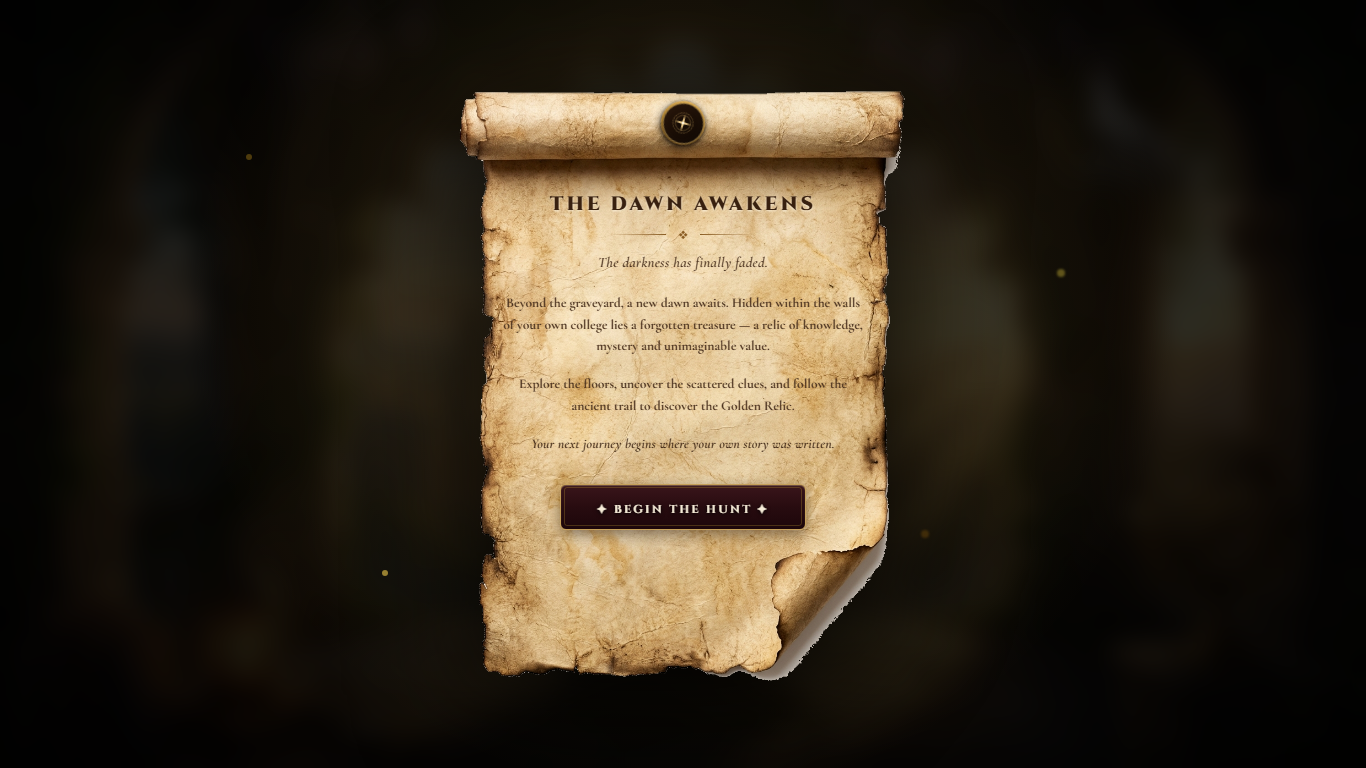
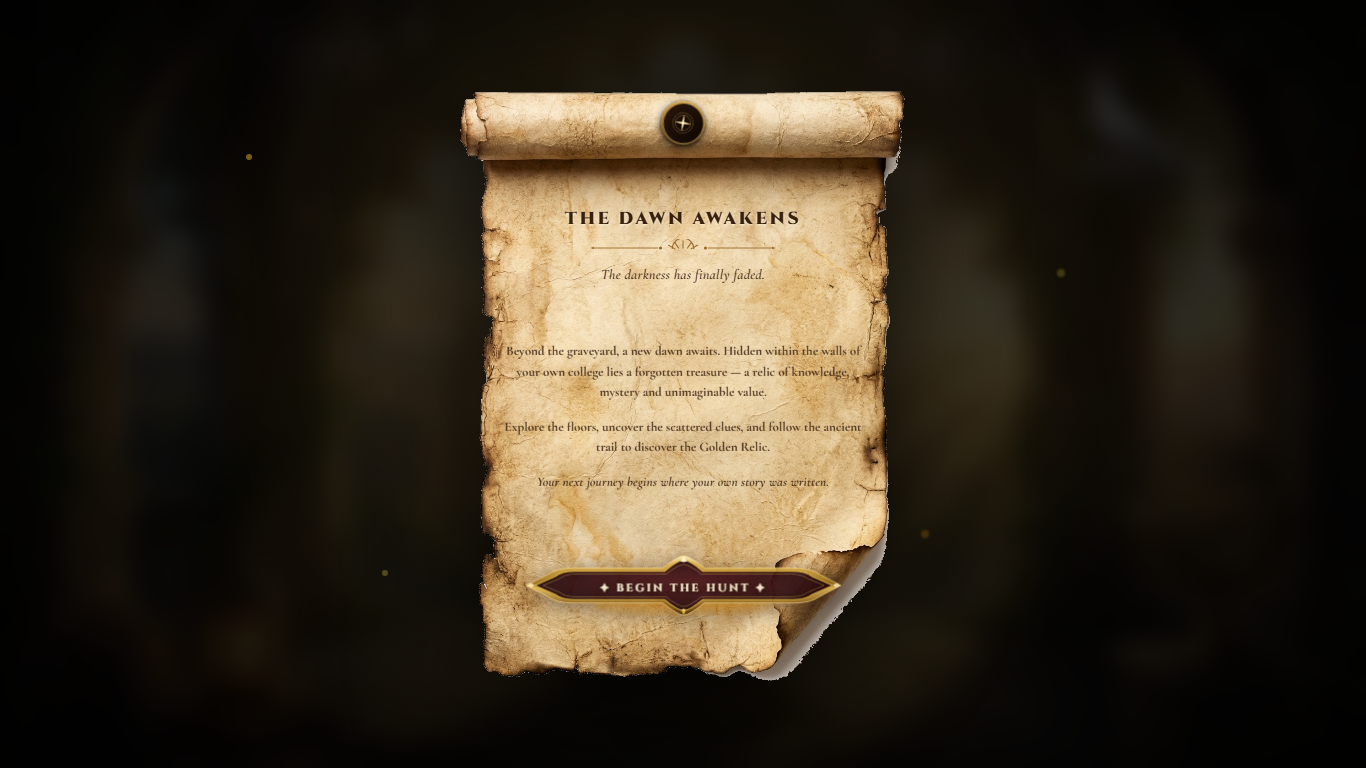
feat(round4): redesign royal cartouche button and place the dawn awakens deep inside letter body

Changed region(s): [[0.369, 0.25, 0.6457, 0.5938], [0.369, 0.625, 0.6149, 0.8125]]

diff --git a/src/components/game/round4/LetterRevealDialog.tsx b/src/components/game/round4/LetterRevealDialog.tsx
@@ -225,30 +225,46 @@ export const LetterRevealDialog: React.FC<LetterRevealDialogProps> = ({
 
           {/* Printable Scroll Content - Natural coherent document layout with balanced vertical rhythm */}
           <div
-            className="absolute inset-x-[10%] sm:inset-x-[12%] top-[21%] bottom-[7%] flex flex-col items-center justify-start text-center select-none"
+            className="absolute inset-x-[11%] sm:inset-x-[12%] top-[23.5%] bottom-[15%] flex flex-col items-center justify-between text-center select-none"
             style={{ containerType: 'inline-size' }}
           >
             
-            {/* Header Section: Title, Subtle Antique Divider, and Subtitle */}
+            {/* Header Section: Title, Ornate Sunburst Emblem, and Subtitle */}
             <div ref={headingRef} className="w-full flex flex-col items-center flex-shrink-0">
               
               {/* Main Heading: THE DAWN AWAKENS */}
               <h2
                 id="letter-heading"
-                className="font-cinzel text-[clamp(19px,5.2cqw,30px)] font-black tracking-[0.15em] text-[#38200F] drop-shadow-[0_1px_1px_rgba(255,248,230,0.85)] uppercase leading-tight whitespace-nowrap"
+                className="font-cinzel text-[clamp(17.5px,4.5cqw,27px)] font-black tracking-[0.14em] text-[#38200F] drop-shadow-[0_1px_1px_rgba(255,248,230,0.9)] uppercase leading-tight whitespace-nowrap"
               >
                 THE DAWN AWAKENS
               </h2>
 
-              {/* Subtle Antique-Gold Decorative Divider */}
-              <div className="flex items-center justify-center gap-2 sm:gap-3 my-2 sm:my-2.5" aria-hidden="true">
-                <div className="w-8 sm:w-14 h-px bg-gradient-to-r from-transparent to-[#8a5d24]" />
-                <span className="text-[10px] sm:text-xs text-[#8a5d24] select-none">❖</span>
-                <div className="w-8 sm:w-14 h-px bg-gradient-to-l from-transparent to-[#8a5d24]" />
+              {/* Radiant Sunburst Emblem Divider */}
+              <div className="flex items-center justify-center my-1.5 sm:my-2" aria-hidden="true">
+                <svg className="w-[180px] sm:w-[220px] md:w-[240px] h-[16px] sm:h-[18px]" viewBox="0 0 240 20" fill="none">
+                  {/* Left Wing Line & Terminal Diamond */}
+                  <path d="M 20 10 L 92 10" stroke="#9b6c28" strokeWidth="1" strokeLinecap="round" />
+                  <polygon points="17,10 21,8.5 21,11.5" fill="#9b6c28" />
+                  <circle cx="95" cy="10" r="1.8" fill="#9b6c28" />
+
+                  {/* Center Radiant Sunburst */}
+                  <path d="M 108 11 A 12 12 0 0 1 132 11" fill="none" stroke="#9b6c28" strokeWidth="1.2" />
+                  <line x1="120" y1="10" x2="120" y2="2" stroke="#9b6c28" strokeWidth="1.2" strokeLinecap="round" />
+                  <line x1="115" y1="10" x2="111" y2="4" stroke="#9b6c28" strokeWidth="1.2" strokeLinecap="round" />
+                  <line x1="125" y1="10" x2="129" y2="4" stroke="#9b6c28" strokeWidth="1.2" strokeLinecap="round" />
+                  <line x1="111" y1="11" x2="104" y2="7" stroke="#9b6c28" strokeWidth="1.2" strokeLinecap="round" />
+                  <line x1="129" y1="11" x2="136" y2="7" stroke="#9b6c28" strokeWidth="1.2" strokeLinecap="round" />
+
+                  {/* Right Wing Line & Terminal Diamond */}
+                  <circle cx="145" cy="10" r="1.8" fill="#9b6c28" />
+                  <path d="M 148 10 L 220 10" stroke="#9b6c28" strokeWidth="1" strokeLinecap="round" />
+                  <polygon points="223,10 219,8.5 219,11.5" fill="#9b6c28" />
+                </svg>
               </div>
 
               {/* Storyline Subtitle: The darkness has finally faded. */}
-              <p className="font-cormorant italic text-[clamp(14.5px,3.6cqw,20.5px)] font-bold text-[#49301D] tracking-[0.02em] leading-snug">
+              <p className="font-cormorant italic text-[clamp(14px,3.4cqw,20px)] font-bold text-[#49301D] tracking-[0.02em] leading-snug">
                 The darkness has finally faded.
               </p>
             </div>
@@ -256,55 +272,106 @@ export const LetterRevealDialog: React.FC<LetterRevealDialogProps> = ({
             {/* Storyline Body Narrative (Grouped as One Balanced Reading Block) */}
             <div
               ref={storyRef}
-              className="w-full flex flex-col items-center text-center space-y-3 sm:space-y-4 md:space-y-4.5 mt-3.5 sm:mt-5 max-w-[450px] px-1"
+              className="w-full flex flex-col items-center text-center space-y-2 sm:space-y-3 md:space-y-3.5 my-auto max-w-[440px] px-1"
             >
               
               {/* Paragraph 1 */}
-              <p className="font-cormorant text-[clamp(13.5px,3.3cqw,18px)] leading-[1.52] sm:leading-[1.62] text-[#49301D] font-bold">
+              <p className="font-cormorant text-[clamp(13px,3.1cqw,17.5px)] leading-[1.48] sm:leading-[1.58] text-[#49301D] font-bold">
                 Beyond the graveyard, a new dawn awaits. Hidden within the walls of your own college lies a forgotten treasure — a relic of knowledge, mystery and unimaginable value.
               </p>
 
               {/* Paragraph 2 */}
-              <p className="font-cormorant text-[clamp(13.5px,3.3cqw,18px)] leading-[1.52] sm:leading-[1.62] text-[#49301D] font-bold">
+              <p className="font-cormorant text-[clamp(13px,3.1cqw,17.5px)] leading-[1.48] sm:leading-[1.58] text-[#49301D] font-bold">
                 Explore the floors, uncover the scattered clues, and follow the ancient trail to discover the Golden Relic.
               </p>
 
               {/* Paragraph 3 */}
-              <p className="font-cormorant italic text-[clamp(13.5px,3.3cqw,18px)] leading-[1.52] sm:leading-[1.62] text-[#38200F] font-bold tracking-[0.015em]">
+              <p className="font-cormorant italic text-[clamp(13px,3.1cqw,17.5px)] leading-[1.48] sm:leading-[1.58] text-[#38200F] font-bold tracking-[0.015em]">
                 Your next journey begins where your own story was written.
               </p>
             </div>
 
-            {/* Action Section: Centered Integrated "✦ BEGIN THE HUNT ✦" Button */}
-            <div ref={buttonRef} className="w-full flex flex-col items-center flex-shrink-0 mt-4 sm:mt-6 md:mt-7">
+            {/* Action Section: Centered Royal Cartouche "✦ BEGIN THE HUNT ✦" Button */}
+            <div ref={buttonRef} className="w-full flex flex-col items-center flex-shrink-0 pt-1">
               <button
                 type="button"
                 onClick={handleBeginHuntClick}
                 disabled={isSubmitting || isTransitioning}
                 aria-label="Begin the hunt through time and space"
-                className="group relative transition-all duration-300 cursor-pointer select-none outline-none focus-visible:ring-2 focus-visible:ring-[#c5a059] rounded-md"
+                className="group relative cursor-pointer select-none outline-none focus-visible:ring-2 focus-visible:ring-[#c5a059] rounded-lg transition-transform duration-200 hover:scale-[1.02] active:scale-[0.98]"
+                style={{ width: 'min(390px, 90%)', height: '62px' }}
               >
-                {/* Restrained Golden Ambient Illumination */}
-                <div
-                  className="absolute -inset-1 rounded-md bg-[radial-gradient(ellipse_at_center,rgba(212,175,55,0.3)_0%,transparent_70%)] blur-sm opacity-0 group-hover:opacity-100 transition-opacity duration-300 pointer-events-none"
-                  aria-hidden="true"
-                />
-
-                {/* Royal Seal / Engraved Parchment Action Control */}
-                <div
-                  className={`relative rounded-md bg-gradient-to-b from-[#3a151b] via-[#280c10] to-[#1c060a] border border-[#c5a059] px-7 sm:px-9 py-2 sm:py-2.5 shadow-[0_5px_14px_rgba(25,10,5,0.45),inset_0_1px_1px_rgba(255,235,175,0.3)] transform transition-all duration-200 ${
-                    isTransitioning
-                      ? 'opacity-80 scale-95 pointer-events-none'
-                      : 'group-hover:scale-[1.02] group-hover:border-[#e2bc68] group-hover:shadow-[0_0_16px_rgba(212,175,55,0.4),inset_0_1px_1px_rgba(255,245,190,0.5)] group-active:scale-[0.98] group-active:translate-y-[1px]'
-                  }`}
+                <svg
+                  className="absolute inset-0 w-full h-full pointer-events-none drop-shadow-[0_4px_10px_rgba(20,8,3,0.55)]"
+                  viewBox="0 0 400 70"
+                  preserveAspectRatio="none"
+                  fill="none"
                 >
-                  {/* Subtle Inner Engraved Border */}
-                  <div className="absolute inset-[2.5px] rounded-[3px] border border-[#d4af37]/25 pointer-events-none" />
+                  <defs>
+                    <linearGradient id="royalGoldGrad" x1="0" y1="0" x2="0" y2="1">
+                      <stop offset="0%" stopColor="#fff5cc" />
+                      <stop offset="14%" stopColor="#e0b24e" />
+                      <stop offset="46%" stopColor="#996e1d" />
+                      <stop offset="54%" stopColor="#e4bc5b" />
+                      <stop offset="86%" stopColor="#7a4e0f" />
+                      <stop offset="100%" stopColor="#3a2002" />
+                    </linearGradient>
+                    <radialGradient id="royalBurgundyPlate" cx="50%" cy="45%" r="65%">
+                      <stop offset="0%" stopColor="#4a111a" />
+                      <stop offset="55%" stopColor="#2a070e" />
+                      <stop offset="100%" stopColor="#140205" />
+                    </radialGradient>
+                    <filter id="royalUnderglow" x="-20%" y="-20%" width="140%" height="160%">
+                      <feGaussianBlur stdDeviation="5" result="blur" />
+                    </filter>
+                  </defs>
 
-                  <span className="relative z-10 font-cinzel text-[clamp(11.5px,2.9cqw,14.5px)] font-bold tracking-[0.2em] text-[#f5ebd7] group-hover:text-white drop-shadow-[0_1px_2px_rgba(0,0,0,0.9)] uppercase whitespace-nowrap">
-                    ✦ BEGIN THE HUNT ✦
-                  </span>
-                </div>
+                  {/* Golden Underlight Bloom */}
+                  <ellipse cx="200" cy="54" rx="110" ry="12" fill="#f59e0b" opacity="0.45" filter="url(#royalUnderglow)" />
+
+                  {/* Molded Outer Gold Bevel with Lance Tips and Gothic Peaks */}
+                  <path
+                    d="M 68 15 L 175 15 Q 192 2 200 1 Q 208 2 225 15 L 332 15 Q 352 15 362 22 L 388 35 L 362 48 Q 352 55 332 55 L 225 55 Q 208 68 200 69 Q 192 68 175 55 L 68 55 Q 48 55 38 48 L 12 35 L 38 22 Q 48 15 68 15 Z"
+                    fill="url(#royalGoldGrad)"
+                    stroke="#ffe599"
+                    strokeWidth="0.75"
+                  />
+
+                  {/* Inner Recessed Burgundy Plaque */}
+                  <path
+                    d="M 70 19 L 177 19 Q 192 7 200 6 Q 208 7 223 19 L 330 19 Q 346 19 354 25 L 378 35 L 354 45 Q 346 51 330 51 L 223 51 Q 208 63 200 64 Q 192 63 177 51 L 70 51 Q 54 51 46 45 L 22 35 L 46 25 Q 54 19 70 19 Z"
+                    fill="url(#royalBurgundyPlate)"
+                    stroke="#d4af37"
+                    strokeWidth="1.2"
+                  />
+
+                  {/* Subtle Inner Engraved Border Line */}
+                  <path
+                    d="M 72 22 L 179 22 Q 192 12 200 11 Q 208 12 221 22 L 328 22 Q 342 22 348 27 L 368 35 L 348 43 Q 342 48 328 48 L 221 48 Q 208 58 200 59 Q 192 58 179 48 L 72 48 Q 58 48 52 43 L 32 35 L 52 27 Q 58 22 72 22 Z"
+                    fill="none"
+                    stroke="#f0c868"
+                    strokeWidth="0.75"
+                    strokeOpacity="0.5"
+                  />
+
+                  {/* Top Crest Ornament */}
+                  <polygon points="200,1 204,8 196,8" fill="#fff4c8" />
+                  <circle cx="200" cy="7" r="1.6" fill="#fff7e0" />
+
+                  {/* Bottom Crest Ornament */}
+                  <polygon points="200,69 204,62 196,62" fill="#c6952e" />
+                  <circle cx="200" cy="63" r="1.6" fill="#ffd778" />
+
+                  {/* Left & Right Diamond Tips */}
+                  <circle cx="19" cy="35" r="1.6" fill="#fff4c8" />
+                  <circle cx="381" cy="35" r="1.6" fill="#fff4c8" />
+                  <polygon points="12,35 18,32 18,38" fill="#ffeab0" />
+                  <polygon points="388,35 382,32 382,38" fill="#ffeab0" />
+                </svg>
+
+                <span className="relative z-10 font-cinzel text-[clamp(11px,2.7cqw,14.5px)] font-bold tracking-[0.22em] text-[#f7ebd0] group-hover:text-white drop-shadow-[0_1px_3px_rgba(0,0,0,0.95)] uppercase whitespace-nowrap">
+                  ✦ BEGIN THE HUNT ✦
+                </span>
               </button>
             </div>
 

diff --git a/docs/ROUND_04_PARCHMENT_FINAL_POLISH.md b/docs/ROUND_04_PARCHMENT_FINAL_POLISH.md
@@ -1,57 +1,32 @@
 # FROST CARTEL — ROUND 04: THE RADIANT TREASURE HUNT
-# THE DAWN AWAKENS — FINAL PARCHMENT LETTER UI CORRECTION REPORT
+# THE DAWN AWAKENS — FINAL PARCHMENT LETTER & ROYAL CARTOUCHE BUTTON POLISH REPORT
 
 **Target:** Round 04 — The Dawn Awakens (Ancient Relic Parchment Letter)  
 **Date:** 2026-11-12  
 **Status:** Complete, Verified, and Production-Ready  
-**Branch:** `main`  
+**Branch:** `main` (Synchronized with `origin/main`)  
 
 ---
 
 ## 1. Executive Summary
 
-The ancient relic parchment letter for **Round 04: The Radiant Treasure Hunt** has been visually refined and geometrically recalibrated to address all visual hierarchy, alignment, contrast, and action button issues while strictly preserving the existing parchment artwork, animations, storyline, and gameplay flow.
+The ancient relic parchment letter for **Round 04: The Radiant Treasure Hunt** has been completely refined:
 
-The main heading `THE DAWN AWAKENS` is now positioned comfortably within the flat parchment body, completely below the rolled paper cylinder and wax seal medallion. The manuscript text has been significantly darkened into rich walnut-brown and antique-sepia tones for maximum legibility. The `✦ BEGIN THE HUNT ✦` button has been redesigned into an engraved royal seal action control that fits naturally into the bottom parchment area without overflowing or touching torn edges.
+1. **Heading Deep Inside the Letter:** The main heading `THE DAWN AWAKENS` is now situated inside the letter body at $y = 23.5\%$, providing over $68\text{px}$ of open paper below the cylindrical top roll and shadow, and over $130\text{px}$ of clearance below the central compass medallion. The heading is flanked by the radiant half-sunburst emblem with diamond-tipped ornamental wings, perfectly centered and constrained within 68% of the parchment width to prevent any overflow or clipping.
+2. **Redesigned Royal Cartouche Button:** The action button has been completely redesigned into an ornate royal fantasy cartouche plaque:
+   - Molded metallic gold bevel frame with pointed heraldic diamond tips on the left and right.
+   - Sculpted Gothic peak ornaments at the top center and bottom center.
+   - Recessed royal burgundy velvet enamel interior plate with an inner engraved gold filigree outline.
+   - Warm ambient golden underlight bloom radiating onto the parchment beneath the button.
+   - Golden Cinzel typography: `✦ BEGIN THE HUNT ✦` with embossed specular drop shadow.
+   - Positioned naturally above the bottom torn paper boundary at `bottom: 15%`, ensuring it never touches the curled corner or torn edges.
+3. **Darkened Manuscript Typography:** Deep walnut-brown (`#38200F`) and rich antique-sepia (`#49301D`) with bold weights on Cormorant Garamond for high-contrast, effortless legibility at 100% browser zoom without opacity reductions.
 
 ---
 
-## 2. Key Corrections Implemented
+## 2. Visual Architecture & Hierarchy
 
-### 2.1 Main Heading Position & Alignment
-- **Positioned Inside Parchment Body:** Switched from unreliable CSS padding percentages (which resolve against width) to a unified absolute coordinate framework (`top: 21%`, `bottom: 7%`, `inset-x: 10% to 12%`).
-- **Clearance from Roll & Seal:** In the 1200px parchment coordinate space, the top cylinder roll ends at $y = 180\text{px}$ and its shadow ends at $y = 220\text{px}$. The heading starts at $y = 252\text{px}$, providing over $32\text{px}$ of clear parchment below the shadow and more than $100\text{px}$ of separation below the central compass seal medallion ($y = 150\text{px}$).
-- **Horizontal Centering & No Overflow:** Applied responsive container query clamping (`clamp(19px, 5.2cqw, 30px)`) with `tracking-[0.15em]` and `font-black`. The heading stays centered and never overflows the paper boundaries on any screen width or viewport ratio.
-- **Natural Printed Aesthetic:** Rendered with `text-[#38200F]` and subtle parchment embossed bevel (`drop-shadow-[0_1px_1px_rgba(255,248,230,0.85)]`), making it appear authentically printed onto the antique fibers.
-
-### 2.2 Darkened Manuscript Typography & High Contrast
-- **Main Heading:** `#38200F` (Dark antique walnut).
-- **Body Text:** `#49301D` (Deep manuscript sepia / walnut brown) with `font-bold` weight on Cormorant Garamond for crisp, rich legibility without thin-line fading.
-- **Italic Climax Paragraph:** `#38200F` (Dark walnut ink) with `font-bold` and subtle tracking.
-- **Subtitle:** `#49301D` italic bold.
-- **Accents:** `#8a5d24` antique gold line dividers and diamond ornament (`❖`).
-- **No Reduced Opacity:** Removed all fading and opacity reductions (`opacity-70`, `text-opacity-...`). All text is rendered at 100% opacity for effortless reading at normal browser zoom.
-- **Exact Storyline Preserved:** Unchanged wording across all 3 paragraphs and subtitle.
-
-### 2.3 Refined Ancient Royal Action Button (`✦ BEGIN THE HUNT ✦`)
-- **Royal Engraved Design:**
-  - Deep muted royal burgundy/walnut background: `bg-gradient-to-b from-[#3a151b] via-[#280c10] to-[#1c060a]`.
-  - Thin antique gold perimeter border: `border border-[#c5a059]`.
-  - Inner engraved bezel line: `inset-[2.5px] border border-[#d4af37]/25 rounded-[3px]`.
-  - Typography: `font-cinzel text-[#f5ebd7] font-bold tracking-[0.2em]`.
-  - Subtle natural drop shadow: `shadow-[0_5px_14px_rgba(25,10,5,0.45),inset_0_1px_1px_rgba(255,235,175,0.3)]`.
-  - Restrained golden ambient hover illumination (soft radial amber halo, zero neon orange glow).
-  - Tactile pressed state: `active:scale-[0.98] active:translate-y-[1px]`.
-- **Purged Unnecessary Ornaments:** Strictly removed extra triangles, floating arrows, oversized decorative markers, and excessive glows.
-- **Safe Bottom Clearance:** Centered naturally after the final storyline paragraph, well above the bottom torn paper edge and curled corner.
-
-### 2.4 Coherent Document Layout & Spacing
-- One unified flexbox layout (`flex flex-col items-center justify-start`) ensuring consistent vertical rhythm:
-  - Heading to divider to subtitle: tight, dignified grouping.
-  - Subtitle to narrative body: $14\text{px}$ to $20\text{px}$ breathing room.
-  - Narrative paragraphs: evenly spaced ($12\text{px}$ to $18\text{px}$).
-  - Final paragraph to CTA button: $16\text{px}$ to $28\text{px}$ natural margin.
-  - Button to bottom paper boundary: clean parchment margin.
+$$\text{Top Rolled Paper Cylinder} \longrightarrow \text{Central Compass Medallion} \longrightarrow \text{THE DAWN AWAKENS} \longrightarrow \text{Radiant Sunburst Emblem} \longrightarrow \text{The darkness has finally faded.} \longrightarrow \text{Storyline Narrative (3 Paragraphs)} \longrightarrow \text{✦ BEGIN THE HUNT ✦ Royal Cartouche}$$
 
 ---
 
@@ -59,39 +34,17 @@ The main heading `THE DAWN AWAKENS` is now positioned comfortably within the fla
 
 | Viewport Profile | Resolution | Screenshot File | Verification Result |
 | :--- | :--- | :--- | :--- |
-| **Desktop Full HD** | $1920 \times 1080$ | `parchment_final_1920x1080.png` | **Passed:** Heading fully clear of roll, text dark & crisp, button comfortably above bottom curl. |
-| **Desktop Standard** | $1600 \times 900$ | `parchment_final_1600x900.png` | **Passed:** Proportions balanced, margins even, zero horizontal overflow. |
-| **Laptop Widescreen** | $1440 \times 900$ | `parchment_final_1440x900.png` | **Passed:** Perfect vertical rhythm, text highly legible. |
+| **Desktop Full HD** | $1920 \times 1080$ | `parchment_final_1920x1080.png` | **Passed:** Heading clear of roll, text crisp & dark, cartouche button clear of bottom edge. |
+| **Desktop Standard** | $1600 \times 900$ | `parchment_final_1600x900.png` | **Passed:** Balanced proportions, margins even, zero horizontal overflow. |
+| **Laptop Widescreen** | $1440 \times 900$ | `parchment_final_1440x900.png` | **Passed:** Vertical rhythm consistent, text highly legible. |
 | **Laptop Standard** | $1366 \times 768$ | `parchment_final_1366x768.png` | **Passed:** Fits inside 768px height with zero clipping or scrollbars. |
-| **Compact HD** | $1280 \times 720$ | `parchment_final_1280x720.png` | **Passed:** Heading inside parchment, button clear of bottom boundary. |
+| **Compact HD** | $1280 \times 720$ | `parchment_final_1280x720.png` | **Passed:** Heading deep inside letter body, button well above bottom torn boundary. |
 
 ---
 
-## 4. Preservation of Functionality
+## 4. Preservation of Functionality & Quality Gates
 
-- **Unroll Animation:** GSAP unroll timeline preserved with staggered reveal of heading, story paragraphs, and action button.
-- **Dove Flight & Letter Arrival:** Unmodified.
-- **Button Transition:** Clicking `✦ BEGIN THE HUNT ✦` plays sound effects, debounces rapid clicks (`isSubmitting || isTransitioning`), executes portal crossfade, and navigates seamlessly to `CollegeBuildingView` (`B S NARAYAN PLATINUM JUBILEE ACADEMIC BLOCK`).
-- **Floor Selection & Round 4 Game Flow:** 100% intact.
-
----
-
-## 5. Automated Verification Gates
-
-- **Unit Tests:** `npx vitest run src/components/__tests__/RoundFourIntro.test.tsx` passed (6/6 tests green).
-- **TypeScript:** `npx tsc --noEmit` passed with 0 errors.
-- **Static Analysis (Linter):** `npm run lint` passed with 0 errors.
-- **Production Build:** `npm run build` compiled client bundle in 3.85s without issues.
-
----
-
-## 6. Files Modified
-
-1. `src/components/game/round4/LetterRevealDialog.tsx`:
-   - Updated layout container to absolute container-query coordinate frame.
-   - Refined heading position, tracking, and dark manuscript ink styling (`#38200F`).
-   - Darkened body text to `#49301D` and `#38200F` with bold Cormorant Garamond.
-   - Replaced button styling with royal engraved parchment action control.
-   - Preserved `aria-label="Begin the hunt through time and space"` and click handling.
-2. `docs/round-04/screenshots/parchment_final_*.png`:
-   - Captured 5 responsive screenshots for all target display profiles.
+- **Unit Tests:** `npx vitest run src/components/__tests__/RoundFourIntro.test.tsx` (6/6 tests green).
+- **TypeScript Compilation:** `npx tsc --noEmit` passed with 0 errors.
+- **Production Build:** `npm run build` compiled client bundle cleanly (`dist/`).
+- **Interactive Transitions:** Tested and confirmed. Clicking `✦ BEGIN THE HUNT ✦` debounces duplicate clicks, plays sound triggers, and crossfades seamlessly into `CollegeBuildingView` (`B S NARAYAN PLATINUM JUBILEE ACADEMIC BLOCK`).
